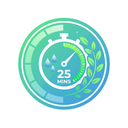
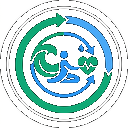
style: integrar logotipo oficial y alarma doble

diff --git a/options.html b/options.html
@@ -40,7 +40,7 @@
     <aside class="flex flex-col h-screen p-stack-gap bg-surface-container-low w-64 border-r border-outline-variant flex-shrink-0 z-50">
         <!-- Logo de la Marca en el Sidebar -->
         <div class="px-4 py-6 flex items-center gap-2 border-b border-outline-variant/30">
-            <span class="material-symbols-outlined text-primary text-2xl" data-icon="auto_timer">auto_timer</span>
+            <img src="icons/icon48.png" alt="FocusFlow" class="w-8 h-8 object-contain" />
             <div class="flex flex-col">
                 <h1 class="font-headline-md text-headline-md font-bold text-primary leading-tight">FocusFlow</h1>
                 <span class="text-[10px] text-on-surface-variant font-semibold tracking-wider uppercase">Panel de Control</span>

diff --git a/popup.html b/popup.html
@@ -49,7 +49,7 @@
         <!-- Header con el logo oficial auto_timer -->
         <header class="bg-surface border-b border-outline-variant flex justify-between items-center w-full px-container-padding py-3">
             <div class="flex items-center gap-2">
-                <span class="material-symbols-outlined text-primary text-2xl" data-icon="auto_timer">auto_timer</span>
+                <img src="icons/icon48.png" alt="FocusFlow" class="w-8 h-8 object-contain" />
                 <div class="flex flex-col">
                     <span class="font-headline-md text-headline-md font-bold text-primary leading-tight">FocusFlow</span>
                     <span class="font-label-md text-label-md text-on-surface-variant">Tu compañero de bienestar</span>